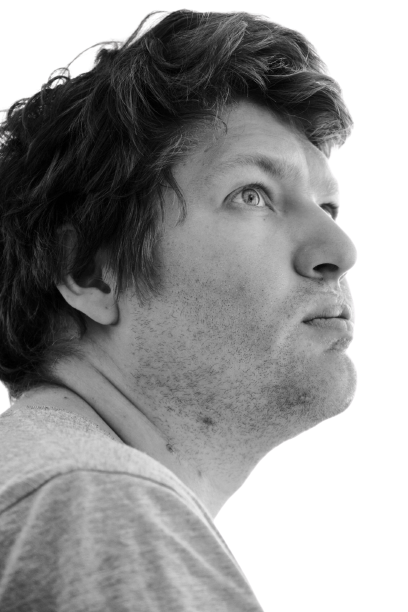
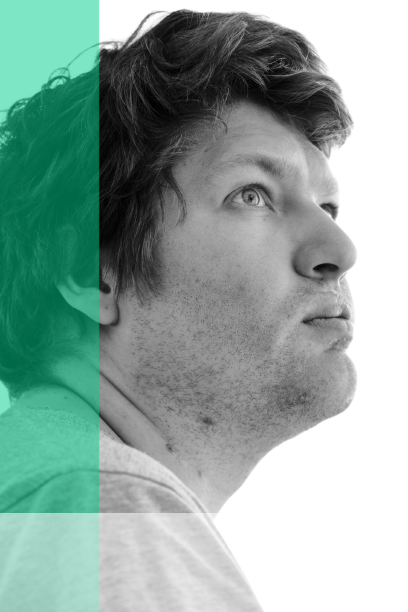
update photo and intro text

Changed region(s): [[0.0, 0.0, 0.6471, 1.0]]

diff --git a/src/pages/index.js b/src/pages/index.js
@@ -22,14 +22,29 @@ const Page = () => {
   return (
     <Layout>
       <div style={{textAlign:"right"}}>
-        <p>Welcome to my page, i'm</p>
+        <span style={{marginLeft:"50%", background: "white"}}>Welcome to my page, i'm</span>
         <h1>Andrew Strokov</h1>
-        <p>This is where you can learn more about me.</p>
+        <br/>
+        <div style={{marginLeft:"30%"}}>
+          <span style={{
+            background: "white",
+            lineHeight: 1.5,
+            paddingTop: "0.2em",
+            paddingBottom: "0.2em",
+            paddingLeft: "0.5em"
+          }}>
+          I am an engineer, developer, and artist working at the intersection of technology and art.
+          I strive to create solutions that are both thoughtful and user-friendly, designed to empower people
+          to achieve their goals.
+          As a developer, I am passionate about developing cutting-edge technology and making it accessible and 
+          understandable for people. I specialize in creating interactive artwork, electronic devices and 
+          web development. Thank you for visiting my website!</span>
+        </div>
         <Img 
           style={{ 
             position: "absolute",
-            bottom: 41,
-            left: 0,
+            bottom: 120,
+            left: 75,
             width: "20%",
             objectFit: "cover",
             margin: "0em"
